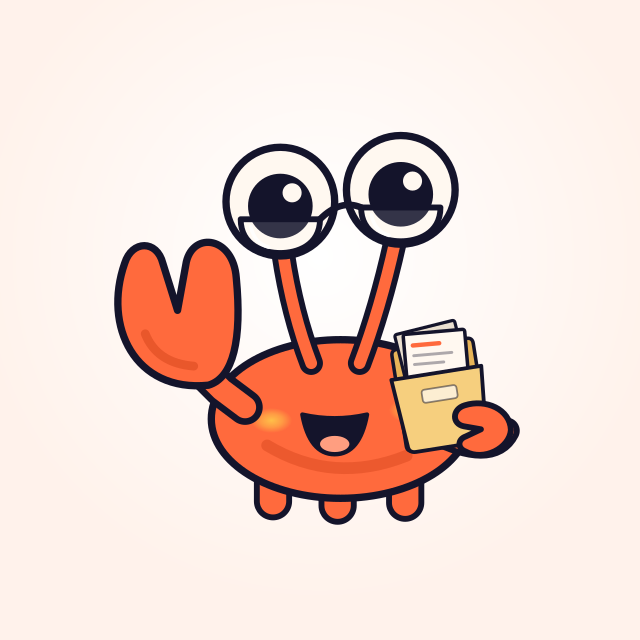
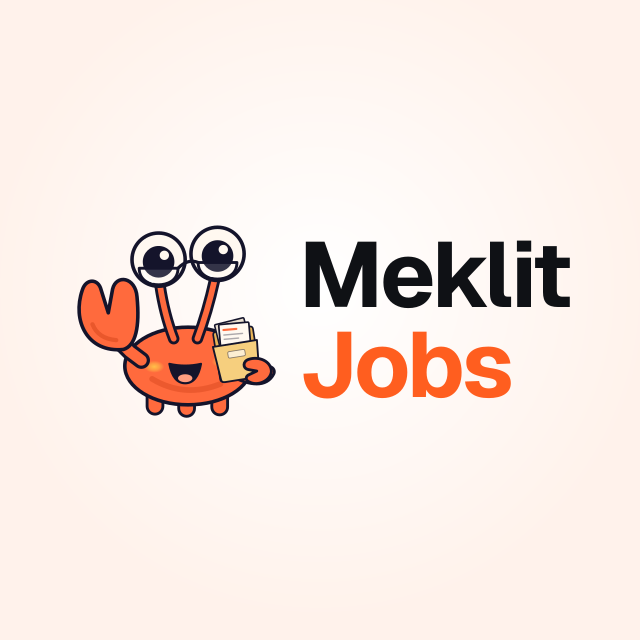
Bot: answer inline queries with an Open Meklit Jobs button; profile picture with the name

Changed region(s): [[0.0938, 0.2188, 0.9062, 0.8438], [0.5938, 0.1875, 0.6562, 0.2188]]

diff --git a/apps/api/src/bot/bot.service.ts b/apps/api/src/bot/bot.service.ts
@@ -29,7 +29,7 @@ import { PrismaService } from "../prisma/prisma.service";
 import { UsersService } from "../users/users.service";
 import * as M from "./bot.messages";
 
-const ALLOWED_UPDATES = ["message", "my_chat_member", "callback_query"] as const;
+const ALLOWED_UPDATES = ["message", "my_chat_member", "callback_query", "inline_query"] as const;
 
 @Injectable()
 export class BotService implements OnApplicationBootstrap, OnModuleDestroy {
@@ -389,6 +389,12 @@ export class BotService implements OnApplicationBootstrap, OnModuleDestroy {
     pm.command("help", (ctx) => ctx.reply(M.HELP_TEXT, { parse_mode: "HTML" }));
 
     // User blocked / unblocked the bot.
+    // Inline mode is on for the Mini App's share pictures. Someone typing @bot in a chat gets
+    // no results, just a button into the bot (instead of an endless spinner).
+    this.bot.on("inline_query", (ctx) =>
+      ctx.answerInlineQuery([], { cache_time: 3600, is_personal: false, button: { text: "Open Meklit Jobs", start_parameter: "inline" } }),
+    );
+
     this.bot.on("my_chat_member", async (ctx) => {
       if (ctx.chat.type !== "private") return;
       const status = ctx.myChatMember.new_chat_member.status;

diff --git a/apps/web/src/app/og/msg/[kind]/route.tsx b/apps/web/src/app/og/msg/[kind]/route.tsx
@@ -264,11 +264,17 @@ export async function GET(req: Request, { params }: { params: Promise<{ kind: st
             display: "flex",
             alignItems: "center",
             justifyContent: "center",
-            background: `radial-gradient(circle at 50% 40%, #ffffff 0%, ${ACCENT_SOFT} 70%)`,
+            gap: 6,
+            background: `radial-gradient(circle at 50% 45%, #ffffff 0%, ${ACCENT_SOFT} 70%)`,
+            fontFamily: "Geist",
           }}
         >
           {/* eslint-disable-next-line @next/next/no-img-element -- next/og */}
-          <img src={MOXIE_URI} width={470} height={470} alt="" style={{ marginTop: 10 }} />
+          <img src={MOXIE_URI} width={230} height={230} alt="" />
+          <div style={{ display: "flex", flexDirection: "column", alignItems: "flex-start", fontSize: 92, fontWeight: 700, lineHeight: 0.98, letterSpacing: -3 }}>
+            <div style={{ display: "flex", color: INK }}>Meklit</div>
+            <div style={{ display: "flex", color: ACCENT }}>Jobs</div>
+          </div>
         </div>,
         { size: { width: 640, height: 640 }, png: true },
       );
